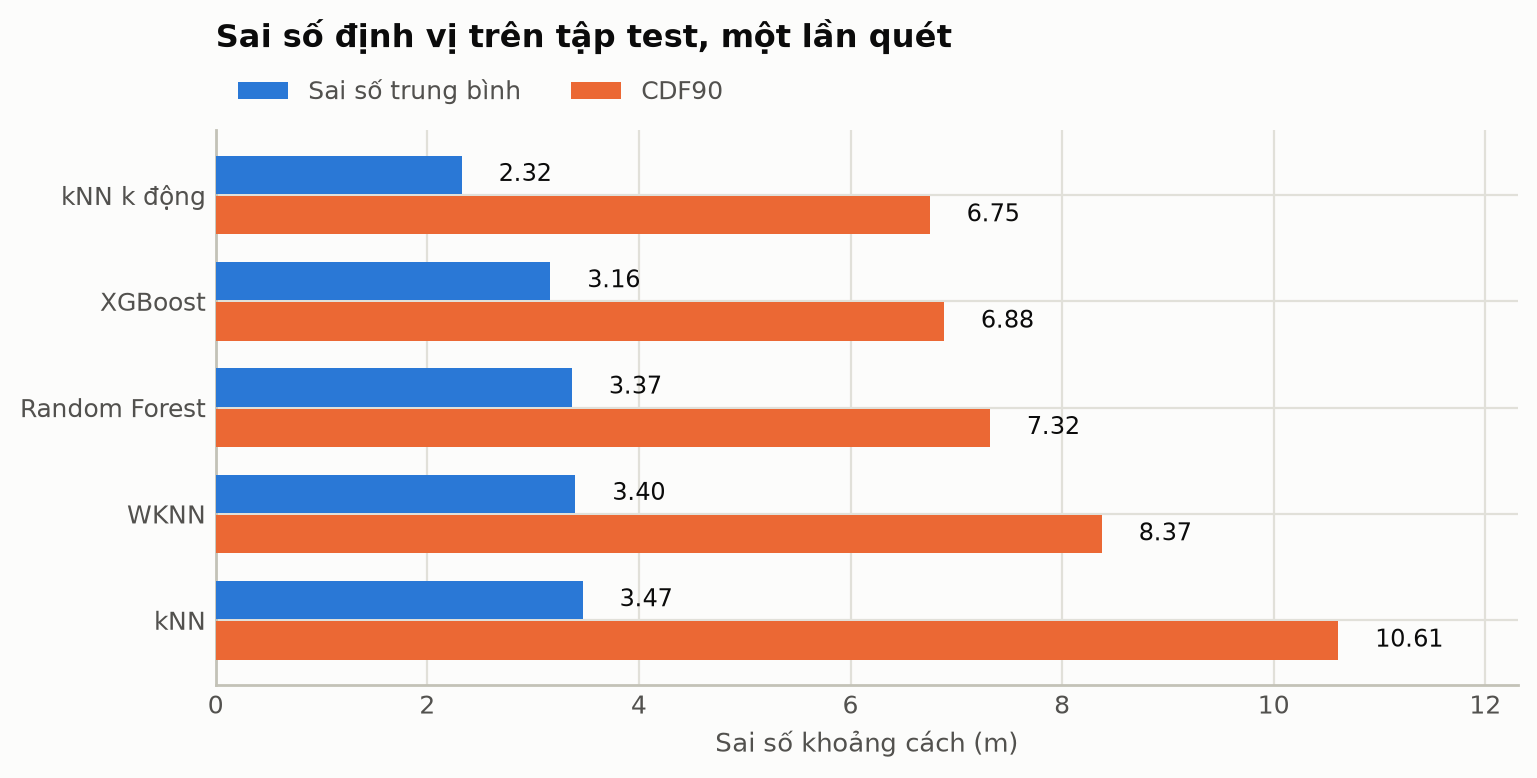
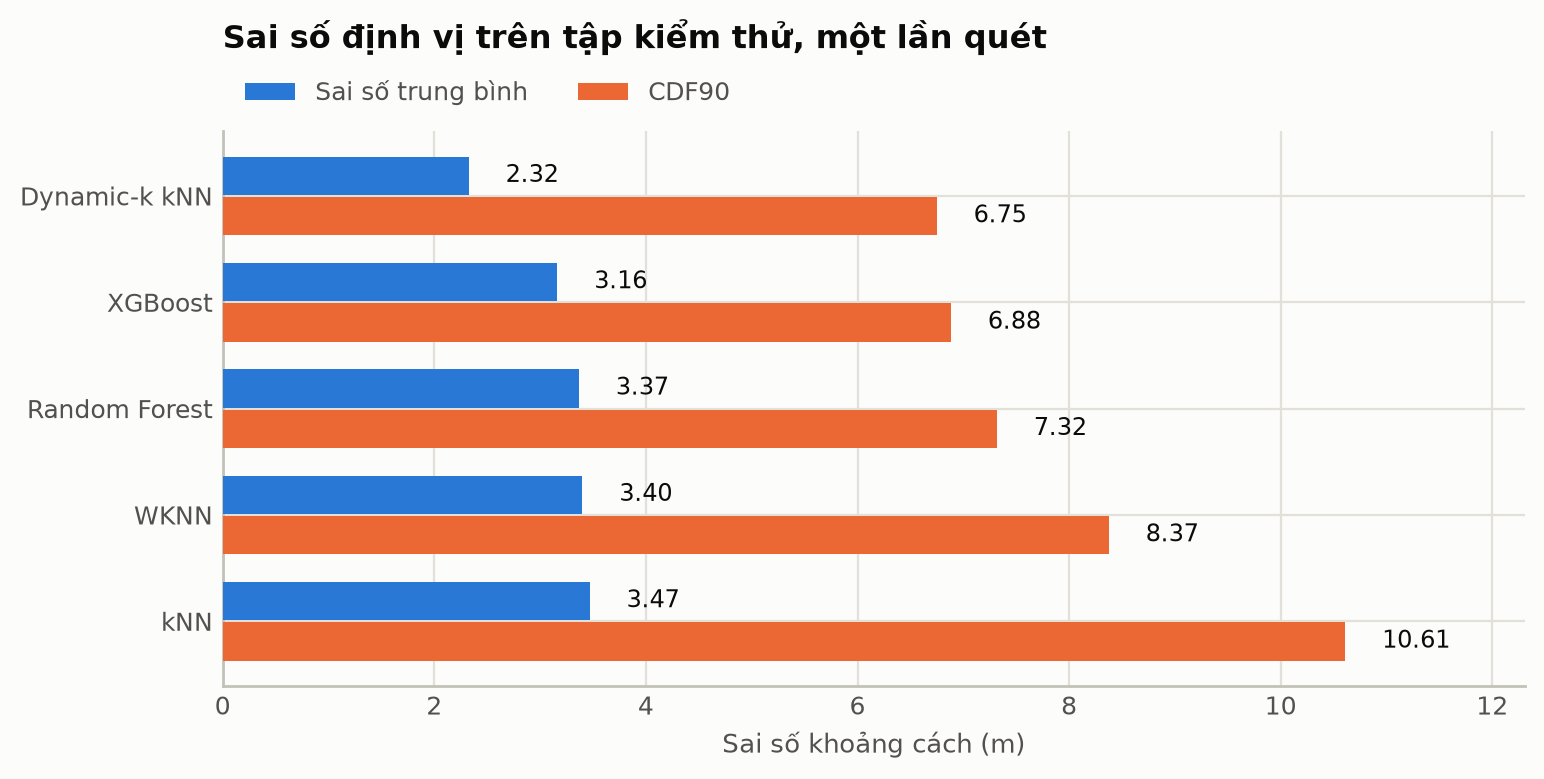
docs: hình minh hoạ chỉ đường và sơ đồ có trục toạ độ, Việt hoá nhãn hình, cập nhật README, tài liệu thiết kế, kết quả bản đồ RSSI

diff --git a/tools/minh_hoa_chi_duong.py b/tools/minh_hoa_chi_duong.py
@@ -1,0 +1,126 @@
+"""Hình và bảng minh hoạ chỉ đường cho báo cáo: các bước dựng đồ thị và một lần chạy A* có ghi từng bước.
+
+    python -m tools.minh_hoa_chi_duong [TU] [DEN]      # mặc định RP02 (cửa chính) tới RP39 (phòng tạp chí)
+
+Ghi reports/figures/chi_duong_dung_do_thi.png, reports/figures/chi_duong_a_sao.png,
+reports/tables/chi_duong_a_sao_buoc.csv và reports/tables/chi_duong_chi_dan.csv.
+"""
+from __future__ import annotations
+
+import heapq
+import math
+import sys
+
+import matplotlib.pyplot as plt
+import numpy as np
+import pandas as pd
+
+from backend.services.routing_service import DoThiDiLai
+from ml import config
+
+HINH = config.REPORTS_DIR / "figures"
+BANG = config.REPORTS_DIR / "tables"
+XANH, CAM, XAM = "#2C5BD8", "#E08A2E", "#C9D1DE"
+
+
+def a_sao_ghi_buoc(l, tu: str, den: str):
+    """Như LuoiDiLai.tim (xuất phát và đích đều là điểm tham chiếu), nhưng ghi thứ tự mở đỉnh."""
+    s, t = l.chi_so[tu], l.chi_so[den]
+    h = np.hypot(*(l.xy - l.xy[t]).T) * l.met_moi_don_vi
+    g, truoc, mo, hang, xong = {s: 0.0}, {}, [], [(h[s], 0.0, s)], set()
+    while hang:
+        f, _, u = heapq.heappop(hang)
+        if u in xong:
+            continue
+        xong.add(u)
+        mo.append((u, g[u], h[u], g[u] + h[u]))
+        if u == t:
+            break
+        for v, w in l.ke[u]:
+            if g[u] + w < g.get(v, math.inf) - 1e-12:
+                g[v], truoc[v] = g[u] + w, u
+                heapq.heappush(hang, (g[v] + h[v], -g[v], v))
+    tuyen = [t]
+    while tuyen[-1] != s:
+        tuyen.append(truoc[tuyen[-1]])
+    return mo, tuyen[::-1], g[t]
+
+
+def ten_nut(l, i, ten_rp):
+    return ten_rp.get(i, f"góc {i}")
+
+
+def ve_nen(ax, l):
+    x0, x1 = l.sang_don_vi(np.array([[0, 0]]))[0][0], l.sang_don_vi(np.array([[l.o.shape[1], 0]]))[0][0]
+    y1, y0 = l.sang_don_vi(np.array([[0, 0]]))[0][1], l.sang_don_vi(np.array([[0, l.o.shape[0]]]))[0][1]
+    ax.imshow(np.where(l.o, 1.0, 0.82), cmap="gray", vmin=0, vmax=1, extent=(x0, x1, y0, y1))
+    ax.set_xlim(-47, 47); ax.set_ylim(-4, 76)
+    ax.set_xticks([]); ax.set_yticks([])
+
+
+def main():
+    tu, den = (sys.argv[1:3] if len(sys.argv) >= 3 else ("RP02", "RP39"))
+    d = DoThiDiLai()
+    l = d.luoi
+    ten_rp = {v: k for k, v in l.chi_so.items()}
+    m = l.met_moi_don_vi
+
+    # Hình 1: ba bước dựng đồ thị.
+    fig, axs = plt.subplots(1, 3, figsize=(15, 5.2))
+    for ax, tieu_de in zip(axs, ["(a) Vùng đi được từ mặt bằng", "(b) Góc lồi của vật cản và điểm tham chiếu",
+                                 "(c) Nối các cặp nhìn thấy nhau"]):
+        ve_nen(ax, l)
+        ax.set_title(tieu_de, fontsize=12)
+    for ax in axs[1:]:
+        ax.scatter(*l.xy[:l.so_goc].T, s=6, c=XANH)
+        ax.scatter(*l.xy[l.so_goc:].T, s=14, c=CAM)
+    for i, ke in enumerate(l.ke):
+        for j, _ in ke:
+            if j > i:
+                axs[2].plot(*l.xy[[i, j]].T, c=XANH, lw=0.25, alpha=0.35)
+    fig.tight_layout()
+    fig.savefig(HINH / "chi_duong_dung_do_thi.png", dpi=160)
+    plt.close(fig)
+
+    # Hình 2: A* từ TU tới DEN.
+    mo, tuyen, dai = a_sao_ghi_buoc(l, tu, den)
+    fig, ax = plt.subplots(figsize=(8, 6.6))
+    ve_nen(ax, l)
+    for i, ke in enumerate(l.ke):
+        for j, _ in ke:
+            if j > i:
+                ax.plot(*l.xy[[i, j]].T, c=XAM, lw=0.15, alpha=0.3)
+    da_mo = [u for u, *_ in mo]
+    ax.scatter(*l.xy[da_mo].T, s=28, c=XANH, zorder=3)
+    for k, u in enumerate(da_mo, 1):
+        ax.annotate(str(k), l.xy[u], xytext=(-9 if k % 2 else 5, 0), textcoords="offset points", fontsize=8,
+                    ha="center", va="center", color=XANH, weight="bold", zorder=4)
+    ax.plot(*l.xy[tuyen].T, c=XANH, lw=3, zorder=2)
+    for k, c, nhan in [(tu, "black", "xuất phát"), (den, CAM, "đích")]:
+        x, y = l.xy[l.chi_so[k]]
+        ax.scatter([x], [y], s=120, c=c, zorder=5)
+        ax.annotate(f"{k} ({nhan})", (x, y), xytext=(6, -12), textcoords="offset points", fontsize=10,
+                    weight="bold", zorder=5)
+    ax.set_title(f"A* từ {tu} tới {den}: mở {len(mo)} đỉnh, đường dài {dai:.1f} m".replace(".", ","), fontsize=12)
+    fig.tight_layout()
+    fig.savefig(HINH / "chi_duong_a_sao.png", dpi=160)
+    plt.close(fig)
+
+    bang = pd.DataFrame([{"buoc": k, "dinh": ten_nut(l, u, ten_rp), "x": round(l.xy[u][0], 1),
+                          "y": round(l.xy[u][1], 1), "g_m": round(gu, 2), "h_m": round(hu, 2), "f_m": round(fu, 2),
+                          "tren_tuyen": u in tuyen} for k, (u, gu, hu, fu) in enumerate(mo, 1)])
+    bang.to_csv(BANG / "chi_duong_a_sao_buoc.csv", index=False, encoding="utf-8")
+
+    # Dijkstra trên cùng truy vấn để so số đỉnh mở.
+    _, _, _, mo_dij = l.tim(*d.toa_do[tu], {den}, thuat_toan="dijkstra")
+
+    kq = d.chi_duong(*d.toa_do[tu], {den})
+    cd = pd.DataFrame(kq["chi_dan"])
+    cd.to_csv(BANG / "chi_duong_chi_dan.csv", index=False, encoding="utf-8")
+    print(bang.to_string(index=False))
+    print(f"\nA*: {len(mo)} đỉnh mở, Dijkstra: {mo_dij}; quãng đường {kq['quang_duong_m']:.2f} m")
+    print(cd.to_string(index=False))
+
+
+if __name__ == "__main__":
+    main()

diff --git a/ml/report.py b/ml/report.py
@@ -113,7 +113,7 @@ def so_sanh_mo_hinh(loi: dict, thu_tu: list[str]) -> str:
     ax.invert_yaxis()
     ax.set_xlabel("Sai số khoảng cách (m)", color=MUC_PHU, fontsize=9.5)
     ax.set_xlim(0, max(p90) * 1.16)
-    ax.set_title("Sai số định vị trên tập test, một lần quét",
+    ax.set_title("Sai số định vị trên tập kiểm thử, một lần quét",
                  color=MUC_CHINH, fontsize=11.5, fontweight="bold", loc="left", pad=30)
     # Đặt chú giải ngoài vùng vẽ: cột dài nhất chạm sát mép phải nên mọi vị trí
     # bên trong đều đè lên dữ liệu hoặc nhãn giá trị.
@@ -193,8 +193,8 @@ def hieu_qua_gop(meta: dict, te: pd.DataFrame, ap: list[str], du_doan: dict) -> 
                           (ax2, lambda a: a.max(), "Sai số lớn nhất (m)")):
         _khung(ax)
         a, b = [lay(v) for v in dy], [lay(v) for v in ct]
-        ax.bar(vt - rong / 2, a, rong, color=SERIES[0], label="đứng yên (test)", zorder=3)
-        ax.bar(vt + rong / 2, b, rong, color=SERIES[1], label="cửa sổ trượt (train+val, ngoài phần)", zorder=3)
+        ax.bar(vt - rong / 2, a, rong, color=SERIES[0], label="đứng yên (tập kiểm thử)", zorder=3)
+        ax.bar(vt + rong / 2, b, rong, color=SERIES[1], label="cửa sổ trượt (tập học, ngoài phần)", zorder=3)
         cao = max(max(a), max(b))
         for i in vt:
             for x, v in ((i - rong / 2, a[i]), (i + rong / 2, b[i])):
@@ -271,7 +271,7 @@ def do_quan_trong(ap: list[str]) -> str | None:
                        fontsize=8, fontfamily="monospace")
     ax.invert_yaxis()
     ax.set_xlabel("Độ quan trọng", color=MUC_PHU, fontsize=9.5)
-    ax.set_title("15 access point đóng góp nhiều nhất — XGBoost",
+    ax.set_title("15 AP đóng góp nhiều nhất — XGBoost",
                  color=MUC_CHINH, fontsize=11.5, fontweight="bold", loc="left", pad=12)
     ax.legend(frameon=False, fontsize=9, labelcolor=MUC_PHU)
     return _luu(fig, "feature_importance.png")
@@ -326,12 +326,12 @@ def ti_le_xuat_hien_ap() -> str | None:
     ax.axhline(nguong, color=MUC_CHINH, linestyle="--", linewidth=1.2, zorder=4)
     ax.text(0, nguong + 2.5, f"ngưỡng {nguong:.0f}%", color=MUC_CHINH, fontsize=9)
 
-    ax.set_xlabel("Access point, xếp theo tỉ lệ xuất hiện trên tập train",
+    ax.set_xlabel("AP, xếp theo tỉ lệ xuất hiện trên tập huấn luyện",
                   color=MUC_PHU, fontsize=9.5)
-    ax.set_ylabel("Tỉ lệ xuất hiện trên tập train (%)", color=MUC_PHU, fontsize=9.5)
+    ax.set_ylabel("Tỉ lệ xuất hiện trên tập huấn luyện (%)", color=MUC_PHU, fontsize=9.5)
     ax.set_xlim(-1, len(ty_le))
     ax.set_ylim(0, 104)
-    ax.set_title("Tỉ lệ xuất hiện của access point trên tập train — cơ sở chọn ngưỡng",
+    ax.set_title("Tỉ lệ xuất hiện của AP trên tập huấn luyện — cơ sở chọn ngưỡng",
                  color=MUC_CHINH, fontsize=11.5, fontweight="bold", loc="left", pad=12)
     ax.legend(frameon=False, fontsize=9, labelcolor=MUC_PHU, loc="upper left")
     return _luu(fig, "ap_appearance_rate.png")
@@ -358,7 +358,7 @@ def chay(cho_phep_luoi_rut_gon: bool = False) -> None:
     # không lấy mô hình tốt nhất trên test.
     ket_qua = [
         so_sanh_mo_hinh(loi, thu_tu),
-        cdf({"Chia ngẫu nhiên (seed 42, 473 lần quét test)": loi}, "cdf_error.png"),
+        cdf({"Chia ngẫu nhiên (seed 42, 473 lần quét kiểm thử)": loi}, "cdf_error.png"),
         hieu_qua_gop(meta, te, ap, du_doan),
         ban_do_loi(meta, te, du_doan),
         do_quan_trong(ap),

diff --git a/tools/ve_so_do_toa_do.py b/tools/ve_so_do_toa_do.py
@@ -1,0 +1,69 @@
+"""Sơ đồ tầng 1 có trục toạ độ (mét), điểm tham chiếu và chỗ đo tại chỗ, để tra vị trí trong báo cáo.
+
+    python -m tools.ve_so_do_toa_do
+
+Ghi reports/figures/so_do_toa_do.png. Gốc toạ độ ở giữa cửa chính, x sang ngang, y vào trong nhà.
+"""
+from __future__ import annotations
+
+import matplotlib.pyplot as plt
+import numpy as np
+import pandas as pd
+
+from backend.services.routing_service import DoThiDiLai
+from ml import config
+from tools.mat_bang import doc_mat_bang, tam
+
+PHIEU = config.ROOT_DIR / "data/raw/nhom15_2026/2026-11-18/phieu.csv"
+XANH, CAM, CHU = "#2C5BD8", "#E08A2E", "#0D1A30"
+
+
+def main():
+    l = DoThiDiLai().luoi
+    m = l.met_moi_don_vi
+    (x0, y1), (x1, y0) = l.sang_don_vi(np.array([[0, 0], [l.o.shape[1], l.o.shape[0]]])) * m
+
+    fig, ax = plt.subplots(figsize=(11, 9.2))
+    ax.imshow(np.where(l.o, 1.0, 0.8), cmap="gray", vmin=0, vmax=1, extent=(x0, x1, y0, y1), zorder=0)
+    ax.set_xticks(np.arange(-16, 17, 2)); ax.set_yticks(np.arange(-2, 29, 2))
+    ax.set_xticks(np.arange(-16, 17, 1), minor=True); ax.set_yticks(np.arange(-2, 29, 1), minor=True)
+    ax.grid(which="major", color="#9DB8EE", lw=0.7, alpha=0.8, zorder=1)
+    ax.grid(which="minor", color="#9DB8EE", lw=0.3, alpha=0.4, zorder=1)
+    ax.set_xlim(-16.5, 16.5); ax.set_ylim(-1.5, 28.7)
+    ax.set_xlabel("x (m)", color=CHU); ax.set_ylabel("y (m)", color=CHU)
+    ax.tick_params(colors=CHU, labelsize=9)
+
+    for e in doc_mat_bang():
+        x, y = e["tai"] if e.get("loai") == "nhan" else tam(e.get("diem") or [(999, 999)])
+        if e.get("ten") and e["loai"] in ("nhan", "phong", "quay") and abs(x * m) < 15 and y * m < 28 and "icon" not in e:
+            ax.text(x * m, y * m, e["ten"], ha="center", va="center",
+                    fontsize=8.5, color="#5A6478", style="italic", zorder=2)
+
+    ten = {i: k for k, i in l.chi_so.items()}
+    for i in range(l.so_goc, len(l.xy)):
+        x, y = l.xy[i] * m
+        rp = int(ten[i][2:]) <= 40
+        ax.scatter(x, y, s=46, c=CAM if rp else "white", edgecolors=CAM, lw=1.2, zorder=3)
+        ax.annotate(ten[i][2:], (x, y), xytext=(0, 6), textcoords="offset points", ha="center",
+                    fontsize=7.5, color=CHU, zorder=4)
+
+    for _, r in pd.read_csv(PHIEU).iterrows():
+        ax.scatter(r.x * m, r.y * m, s=70, marker="D", c=XANH, edgecolors="white", lw=0.8, zorder=5)
+        trai = -15 < r.x * m < 0
+        ax.annotate(r.ma, (r.x * m, r.y * m), xytext=(-7 if trai else 7, -10), textcoords="offset points",
+                    ha="right" if trai else "left",
+                    fontsize=8.5, color=XANH, fontweight="bold", zorder=6)
+
+    ax.scatter([], [], s=46, c=CAM, label="Điểm tham chiếu (số là mã RP)")
+    ax.scatter([], [], s=46, c="white", edgecolors=CAM, label="Điểm chức năng, không có vân tay")
+    ax.scatter([], [], s=70, marker="D", c=XANH, label="Chỗ đo tại chỗ ngày 18/11/2026")
+    ax.legend(loc="lower center", bbox_to_anchor=(0.5, 1.0), ncol=3, frameon=False, fontsize=9)
+    ax.set_aspect("equal")
+    fig.tight_layout()
+    ra = config.REPORTS_DIR / "figures/so_do_toa_do.png"
+    fig.savefig(ra, dpi=200)
+    print(ra)
+
+
+if __name__ == "__main__":
+    main()

diff --git a/ml/models/fingerprint_knn_dong.py b/ml/models/fingerprint_knn_dong.py
@@ -26,7 +26,7 @@ from sklearn.base import BaseEstimator, RegressorMixin
 
 from ml.models.fingerprint_knn import DinhViPhanLop, bieu_dien_powed
 
-TEN = "kNN k động"
+TEN = "Dynamic-k kNN"
 
 CAC_K_LON = (15, 21, 31, 41)
 CAC_PHAN_VI = tuple(range(5, 100, 5))

diff --git a/README.md b/README.md
@@ -275,7 +275,7 @@ toạ độ chỉ từ các láng giềng cùng toà và tầng, còn ở đây 
   330 ms, P99 ≤ 352 ms. Mô hình trên VM chỉ 1,7 ms; nối thẳng tới VM không qua Cloudflare 136 ms.
   Cloudflare thêm ~200 ms vì vào ở Hồng Kông còn tunnel nối ở Mumbai. Mọi con số này đều nhỏ so
   với nhịp số liệu WiFi mới (2–8 s, mục Hạn chế).
-- APK release chỉ arm64: 20,5 MB (kể cả mô hình cục bộ).
+- APK release chỉ arm64: khoảng 41 MB (kể cả mô hình cục bộ và năm ảnh 360°).
 
 ## Cài đặt và chạy
 
@@ -450,10 +450,16 @@ Cũng đã thử và **không** dùng (khác đợt đo, so với kNN k động)
   khoảng 0,7 dB và Bray-Curtis đã khử phần lệch đơn giản, còn RSSI ở chính cửa chính đổi −6 /
   +5 dB giữa hai đợt do người qua lại, cửa đóng mở.
 
-Hai hướng khác cùng giải quyết chuyện nhảy, không cần thu thêm vân tay: bộ lọc hạt có mô hình
-bước chân và ràng buộc tường, giếng, lan can lấy từ `data/reference/mat_bang_tang1.yaml`; và
-làm dày bản đồ vô tuyến bằng nội suy (Gaussian process) giữa các RP, đánh giá bằng giao thức
-bỏ trọn một điểm.
+- **Bản đồ RSSI bằng hồi quy Gauss** (thử 18–19/11, mã ngoài repo): mỗi AP một bản đồ gồm mô
+  hình suy hao log khoảng cách cộng phần lệch học bằng GP, kèm xác suất bắt được AP; định vị bằng
+  độ khớp trên lưới ô. Một lần quét / gộp 3 lần quét, ba giao thức: bản đồ GP 3,23 / 2,34 ·
+  4,83 / 4,40 · 3,98 / 3,53 m; ghép với kNN k động (lần quét lạ nhân độ khớp với Gauss quanh toạ
+  độ kNN k động) 2,11 / 1,55 · 5,15 / 4,67 · 3,80 / 3,44 m; suy hao đơn 8–9 m. Tốt nhất khi bỏ
+  trọn một điểm, nhưng cần GPU để học và chưa thử tại chỗ nên không triển khai. Sinh vân tay giả
+  từ bản đồ cho Dynamic-k kNN không lợi (chênh dưới 0,06 m).
+
+Một hướng khác giải quyết chuyện nhảy, không cần thu thêm vân tay: bộ lọc hạt có mô hình bước
+chân và ràng buộc tường, giếng, lan can lấy từ `data/reference/mat_bang_tang1.yaml`.
 
 ## Tài liệu
 

diff --git a/deprecated/README.md b/deprecated/README.md
@@ -8,3 +8,4 @@ Mã và tài liệu cũ đã có bản thay thế. Giữ lại để tham khảo
 | `notebooks/tools/layout_tool_click_toado.py` — bấm lên ảnh sơ đồ để lấy toạ độ RP | `data/reference/reference_points.csv`, sơ đồ `data/reference/mat_bang_tang1.yaml` |
 | `tools/trich_ban_do.py` — dò tường, vật cản từ `Map.png` của CTK45 ra lưới đi lại, kèm 15 cửa giả định và luật nối tay; `tools/ve_ban_ve.py`, `tools/ban_do_di_do.py` — hình báo cáo vẽ trên `Map.png` (`reports/figures/ban_ve_*.png`, `ban_do_di_do.png`, `do_thi_di_lai.png`) | `tools/luoi_di_lai.py` dựng lưới đi lại từ sơ đồ đếm gạch `mat_bang_tang1.yaml` |
 | `tai_lieu/Phan_Tich_Thiet_Ke_He_Thong.md` — phân tích thiết kế viết dần trong quá trình làm, kèm đề xuất ban đầu, đối chiếu và số đo chi tiết (tỉ lệ mét, phương vị, so sánh mô hình) | `docs/thiet_ke_he_thong.md` |
+| `tools/thu_van_tay_termux.py` — thu vân tay bằng Termux ngay trên điện thoại, chưa chạy được trên máy thử (Termux:API lệch phiên bản nên lệnh quét WiFi treo) | `tools/thu_van_tay.py` thu qua `adb` với máy nối cáp |

diff --git a/CLAUDE.md b/CLAUDE.md
@@ -35,8 +35,10 @@ Tổng quan hệ thống ở `README.md`, thiết kế ở `docs/thiet_ke_he_tho
 - Báo cáo và slide viết trên Google Docs/Slides, thư mục Drive "WiLoc":
   https://drive.google.com/drive/folders/1fmShLsEUcS6nmvG0US4xwAecbjUZQ3KS. Không tạo .docx/.pptx cục bộ.
 - Viết theo hệ thống có gì, làm được gì, hoạt động thế nào, kết quả và hạn chế.
-- Không viết theo kiểu "theo đề cương...", không kể lại trạng thái hay quá trình, không so sánh với đồ án cũ
-  CTK45 (chỉ một mục nhỏ "cải tiến" khi cần).
+- Không viết theo kiểu "theo đề cương...", không kể lại trạng thái hay quá trình.
+- So sánh với đồ án CTK45 gom vào một mục riêng, giọng trung tính, theo từng mặt (dữ liệu, cách đánh giá, sơ
+  đồ, hệ thống). GVHD muốn ít so sánh, GV phản biện (GVHD của CTK45) muốn có, nên giữ cân bằng: không rải
+  so sánh khắp bài, không chê.
 - Tiếng Việt, câu ngắn, số kèm đơn vị.
 - Tài liệu cũ còn giá trị để viết báo cáo thì chuyển vào `deprecated/`, ghi vào `deprecated/README.md`.
 
